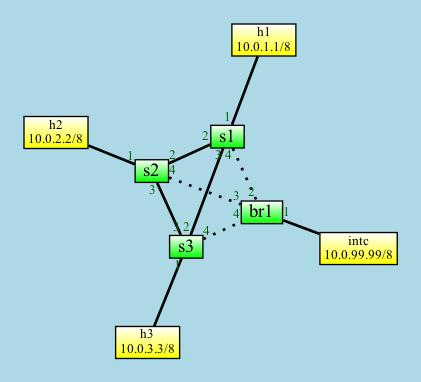
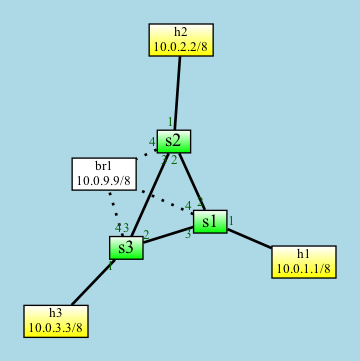
Draw bridge with IP address.

diff --git a/finsy/test/demonet.py b/finsy/test/demonet.py
@@ -421,6 +421,15 @@ def _create_graph(config: Sequence[DemoItem]):
         gradientangle=90,
         fontsize="10",
     )
+    bridge_style = dict(
+        shape="box",
+        width="0.01",
+        height="0.01",
+        margin="0.04,0.02",
+        fillcolor="white",
+        style="filled",
+        fontsize="10",
+    )
     link_style = dict(
         penwidth="2.0",
         fontcolor="darkgreen",
@@ -431,7 +440,7 @@ def _create_graph(config: Sequence[DemoItem]):
 
     for item in config:
         match item:
-            case Switch() | Bridge():
+            case Switch():
                 graph.add_node(item.name, **switch_style)
             case Host():
                 sublabels = [item.name, item.assigned_ipv4, item.assigned_ipv6]
@@ -448,15 +457,27 @@ def _create_graph(config: Sequence[DemoItem]):
                         headlabel=f"{item.assigned_switch_port}",
                         **link_style,
                     )
+            case Bridge():
+                sublabels = [item.name, item.ipv4]
+                bridge_label = "\n".join(x for x in sublabels if x)
+                graph.add_node(
+                    item.name,
+                    label=bridge_label,
+                    **bridge_style,
+                )
             case Link():
+                labels = {}
+                if item.assigned_end_port:
+                    labels["headlabel"] = str(item.assigned_end_port)
+                if item.assigned_start_port:
+                    labels["taillabel"] = str(item.assigned_start_port)
                 addl_style = {}
                 if item.style:
                     addl_style.update(style=item.style)
                 graph.add_edge(
                     item.start,
                     item.end,
-                    headlabel=f"{item.assigned_end_port}",
-                    taillabel=f"{item.assigned_start_port}",
+                    **labels,
                     **link_style,
                     **addl_style,
                 )
